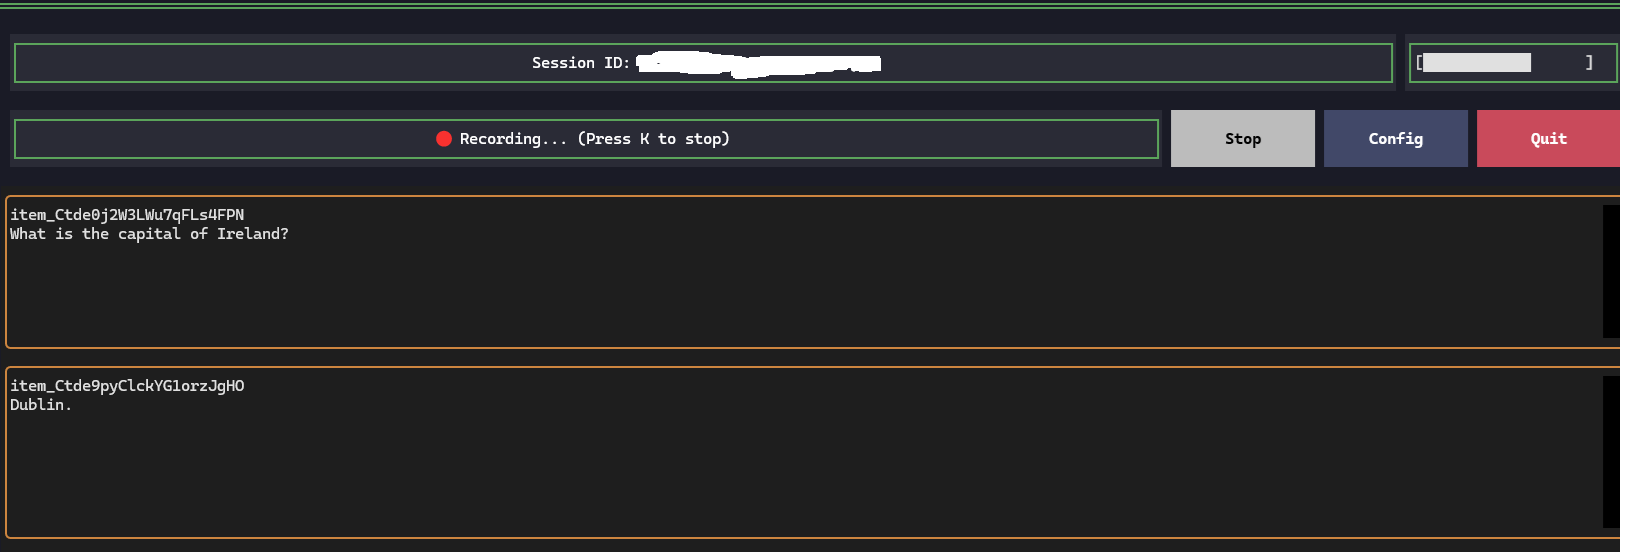
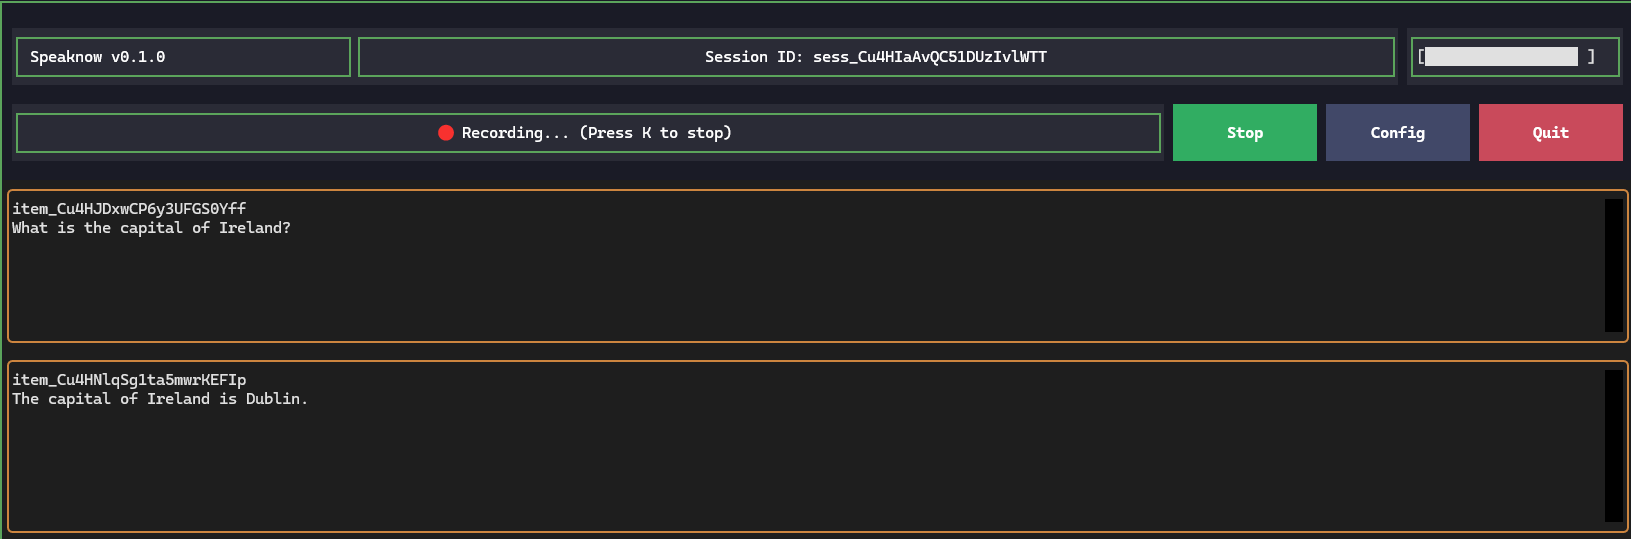
Update screenshot preview

Changed region(s): [[0.0, 0.0, 1.0, 1.0]]

diff --git a/speaknow.py b/speaknow.py
@@ -50,6 +50,16 @@ from gpt_token_tracker.writers.log_writer import LogWriter
 from gpt_token_tracker.pricing import PricingRealtime, PricingAudioTranscription
 from gpt_token_tracker.writers.csv_writer import CSVWriter
 
+# Ignore pydub warning in python 3.14
+# site-packages\pydub\utils.py:300: SyntaxWarning: "\(" is an invalid escape sequence. Such sequences will not work in the future. Did you mean "\\("? A raw string is also an option.
+import warnings
+
+warnings.filterwarnings(
+    "ignore",
+    category=SyntaxWarning,
+    module=r"pydub\..*",
+)
+
 
 LOG_CONFIG_FILE = get_log_config_file()
 BASE_LOG_DIR = get_log_dir()
@@ -184,7 +194,7 @@ class RealtimeApp(App[None]):
         textual_handler.setLevel(logging.DEBUG)
         textual_handler.setFormatter(logging.Formatter("[%(asctime)s] [%(levelname)s]: %(message)s"))
         logging.getLogger("realtime_app").addHandler(textual_handler)
-        log.info("Starting Realtime app version %s", version)
+        log.info("Starting %s version %s", APP_NAME, version)
         await self.restart_workers()
 
     async def restart_workers(self):
